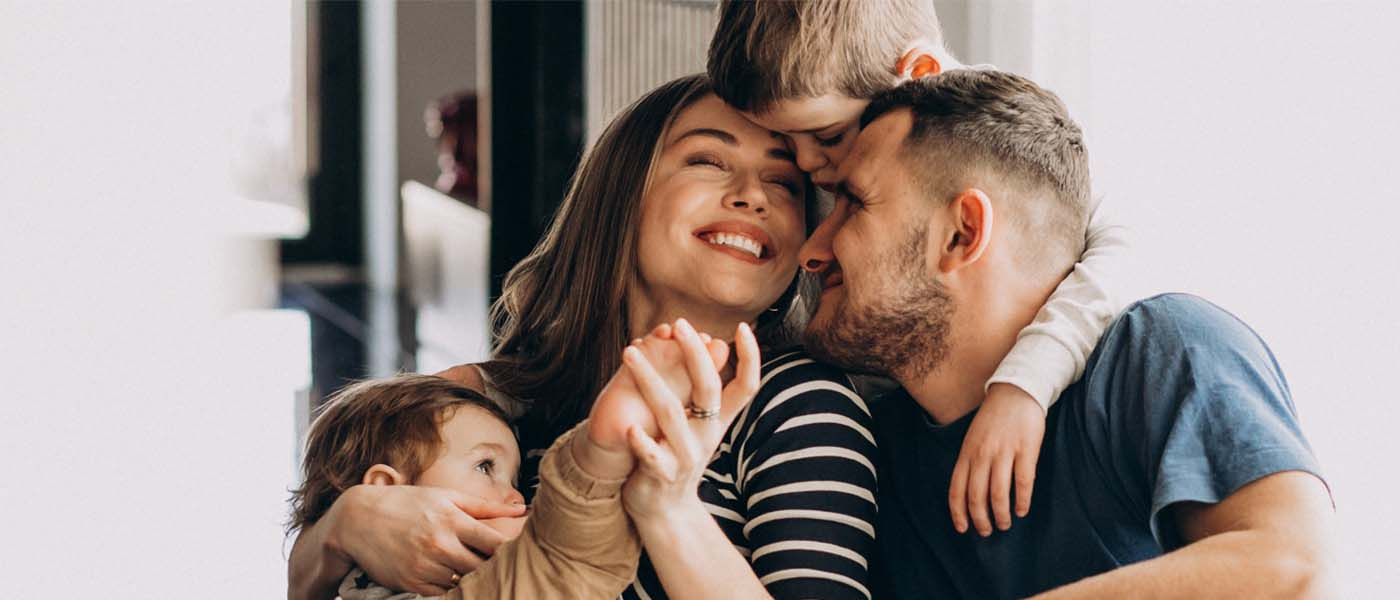
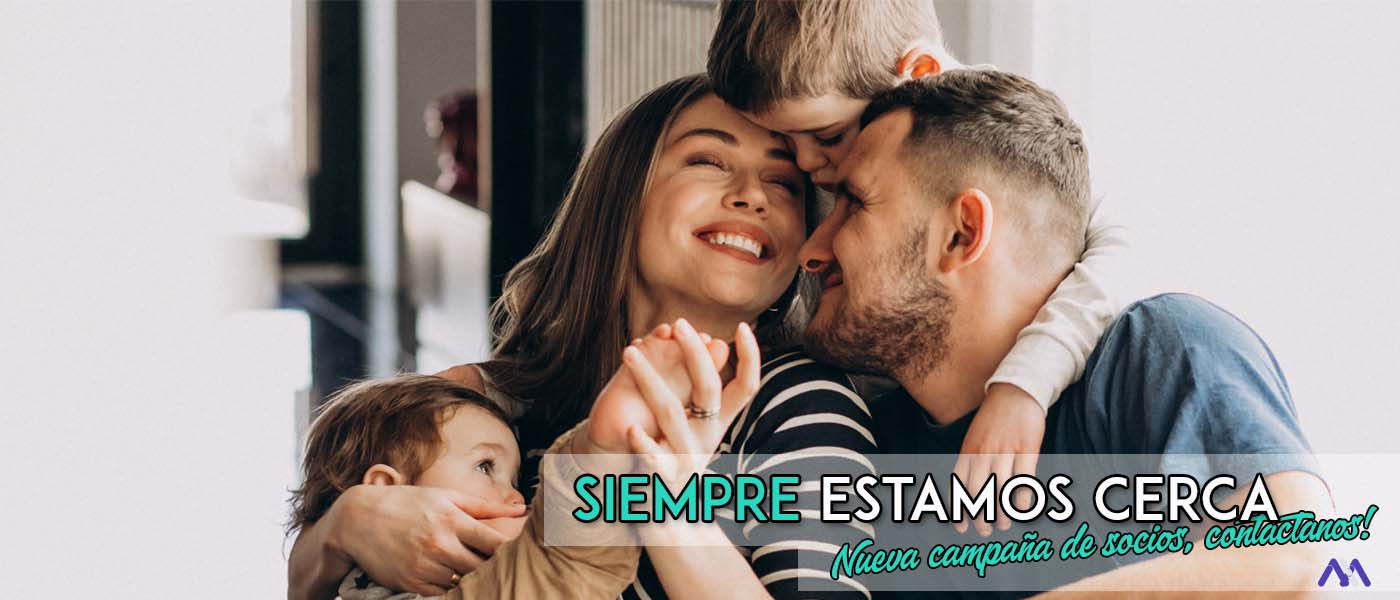
version f

Changed region(s): [[0.3686, 0.75, 0.9829, 0.99]]

diff --git a/index.html b/index.html
@@ -69,22 +69,16 @@
               <div class="carousel-item active">
                 <img src="./imagen/portadaFamilia.jpg" class="d-block w-100" alt="portadaFamilia" >
                 <div class="carousel-caption d-none d-md-block">
-                  <a href="./secciones/contacto.html"><span class="h3h3">SIEMPRE ESTAMOS CERCA TUYO</span></a>
-                  <p>Nueva campaña de Socios, conoce más!</p>
                 </div>
               </div>
               <div class="carousel-item">
                 <img src="./imagen/atencion-medica.jpg" class="d-block w-100" alt="atencion-medica" >
                 <div class="carousel-caption d-none d-md-block">
-                  <a href="./secciones/salud.html"><span class="h3">SERVICIOS DE SALUD INTEGRAL</span></a>
-                  <p>Trabajamos pensando en vos y en tu salud, Siempre es lo primero.</p>
                 </div>
               </div>
               <div class="carousel-item">
                 <img src="./imagen/portadaTurismo.jpg" class="d-block w-100" alt="turismo" >
                 <div class="carousel-caption d-none d-md-block">
-                  <a href="./secciones/turismo.html"><span class="h3">SE REACTIVA EL TURISMO NACIONAL E INTERNACIONAL</span></a>
-                  <p>Planeá tu viaje con nosotros!.</p>
                 </div>
             </div>
             </div>
@@ -161,7 +155,7 @@
         <hr>
         <h2 class="text-center h1">Nuestros Viajes</h2>
         <div class="d-grid gap-2 col-6 mx-auto">
-          <button class="btn btn-primary" type="button"> <a href="./secciones/turismo.html"></a> Ver todos los viajes</button>
+          <a href="./secciones/turismo.html" class="btn btn-primary position-relative" > <button class="btn btn-primary" type="button"> Ver todos los viajes</button></a>
         </div>
         <hr>
         <div class="card mb-3 text-center">
